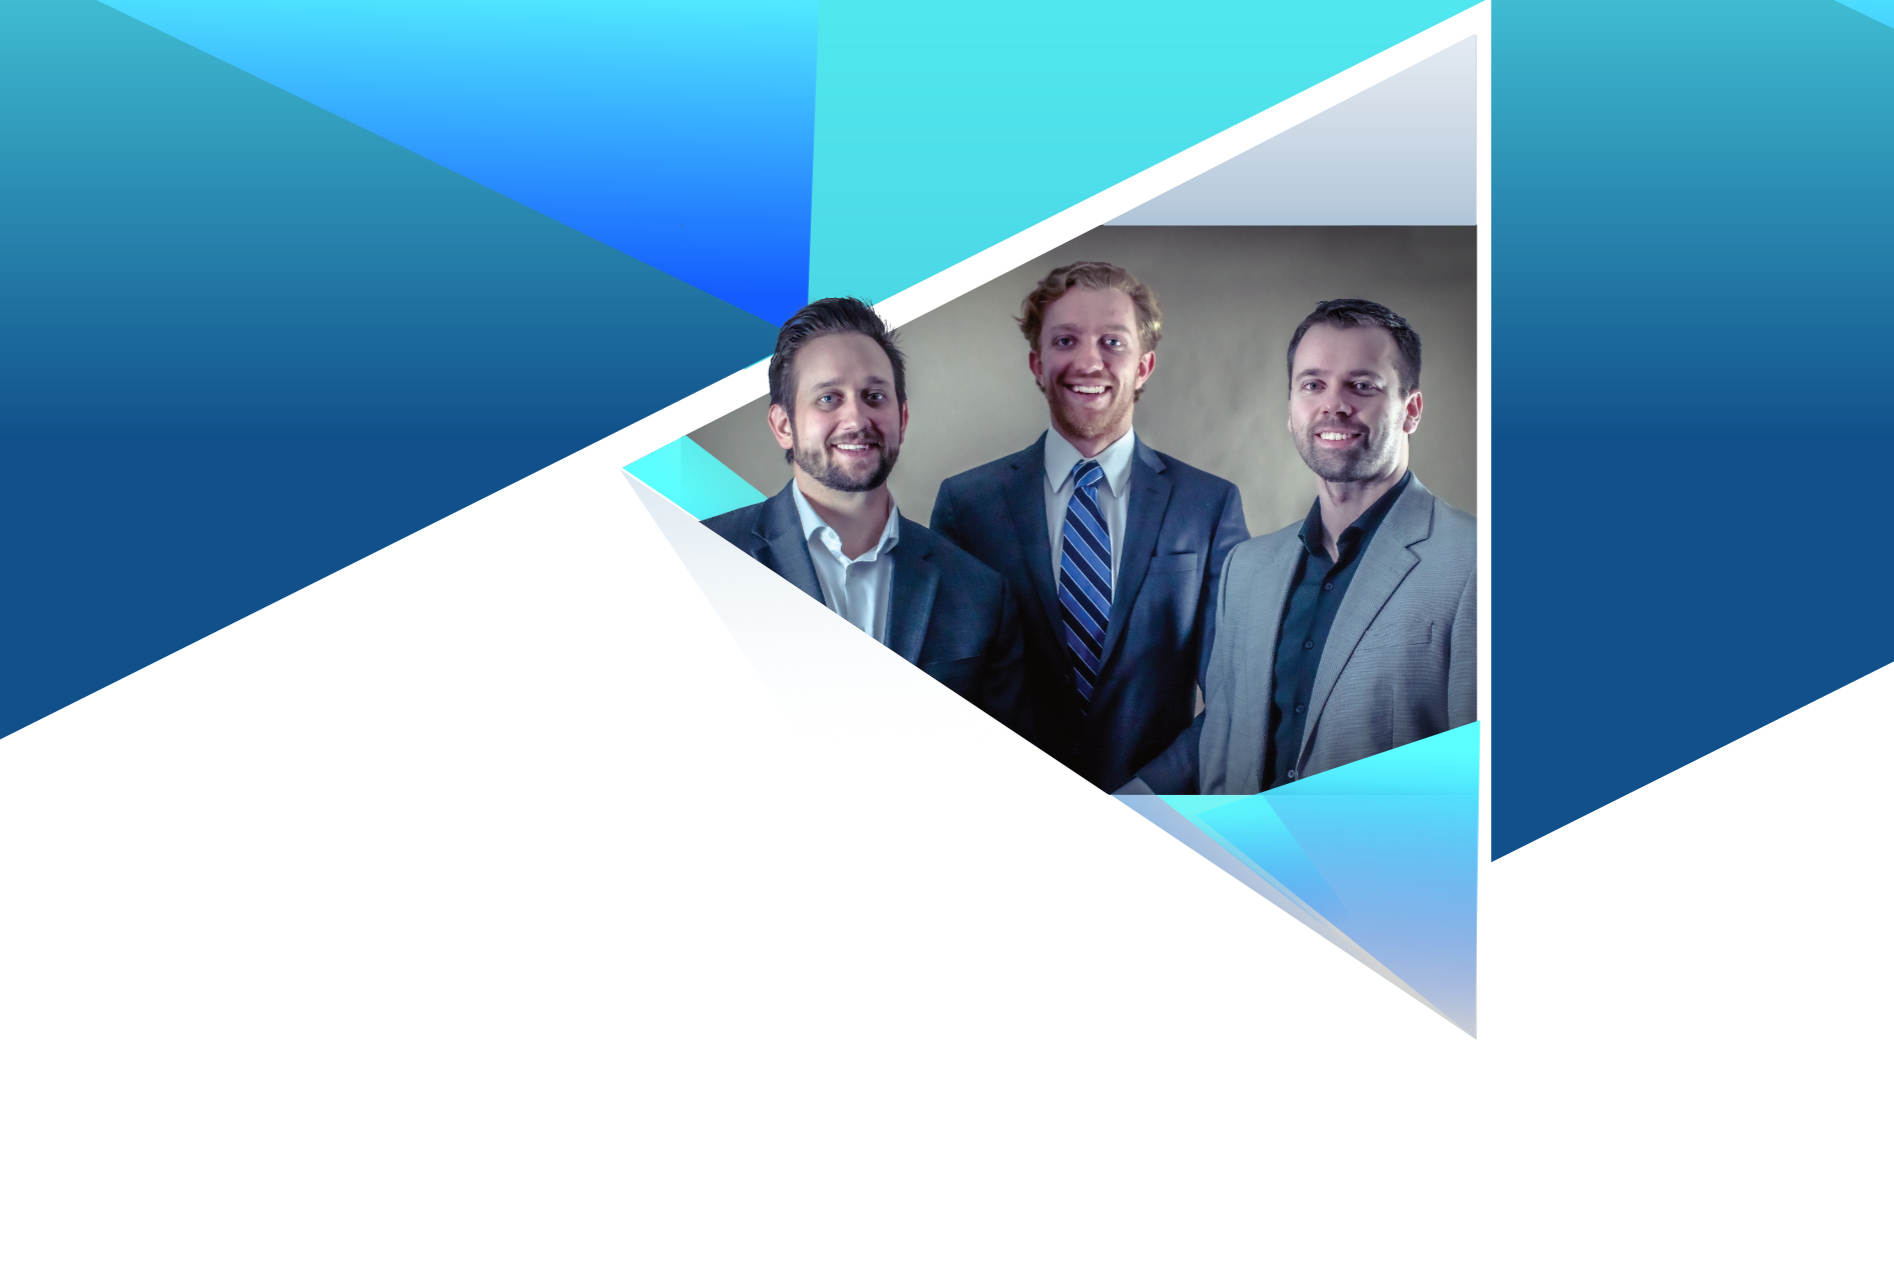
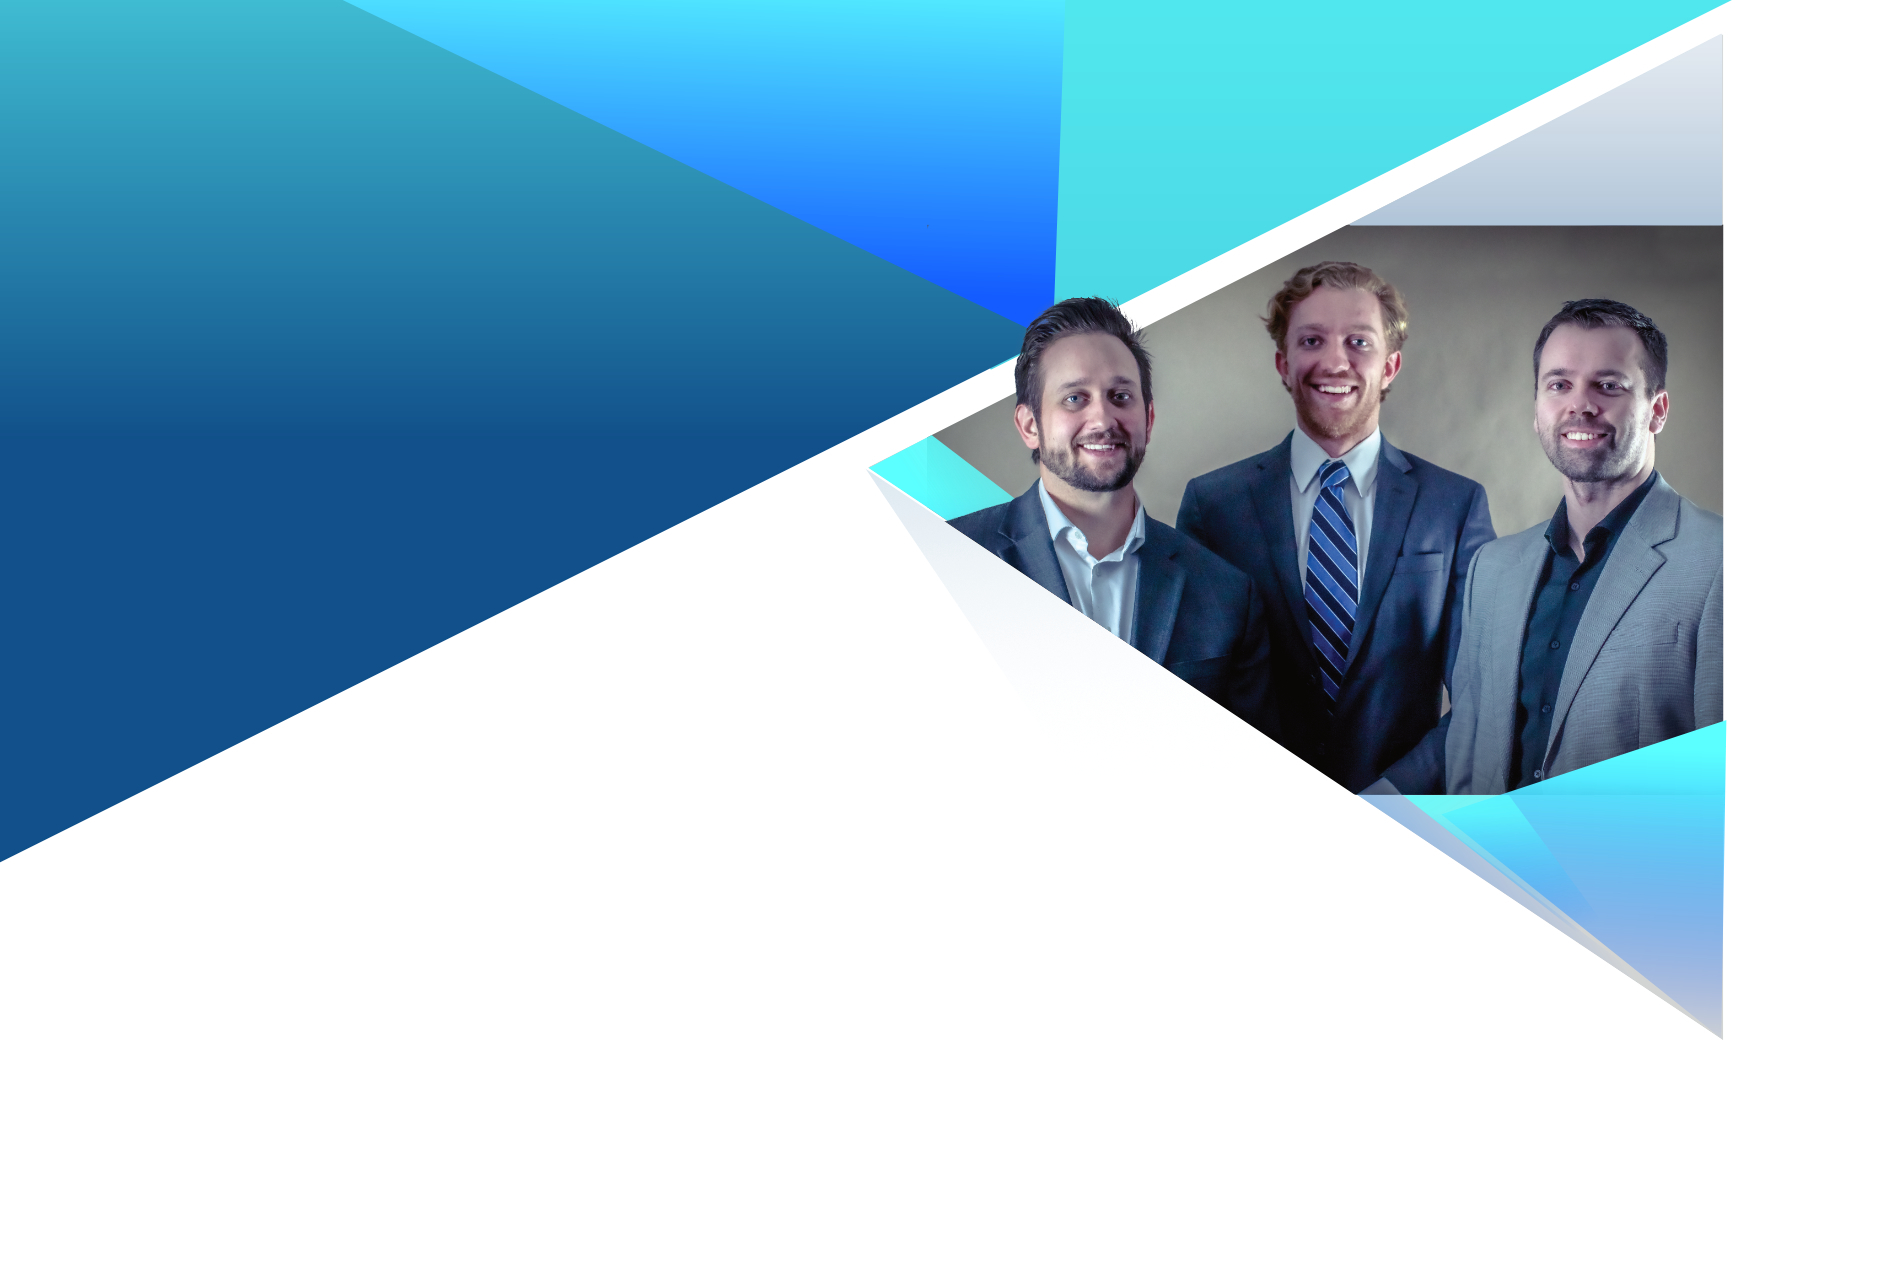
slider

diff --git a/assets/css/main.css b/assets/css/main.css
@@ -3391,7 +3391,7 @@ h6 {
 }
 
 .main-slider .image-layer {
-  margin-top: 5%;
+  margin-top: 15%;
   margin-bottom: -10px;
   position: absolute;
   top: 0;
@@ -3399,7 +3399,7 @@ h6 {
   right: 0;
   bottom: 0;
   opacity: 1;
-  background-repeat: no-repeat;
+  background-repeat: repeat;
   background-size:contain;
  
   /* -webkit-transform: scale(1);
